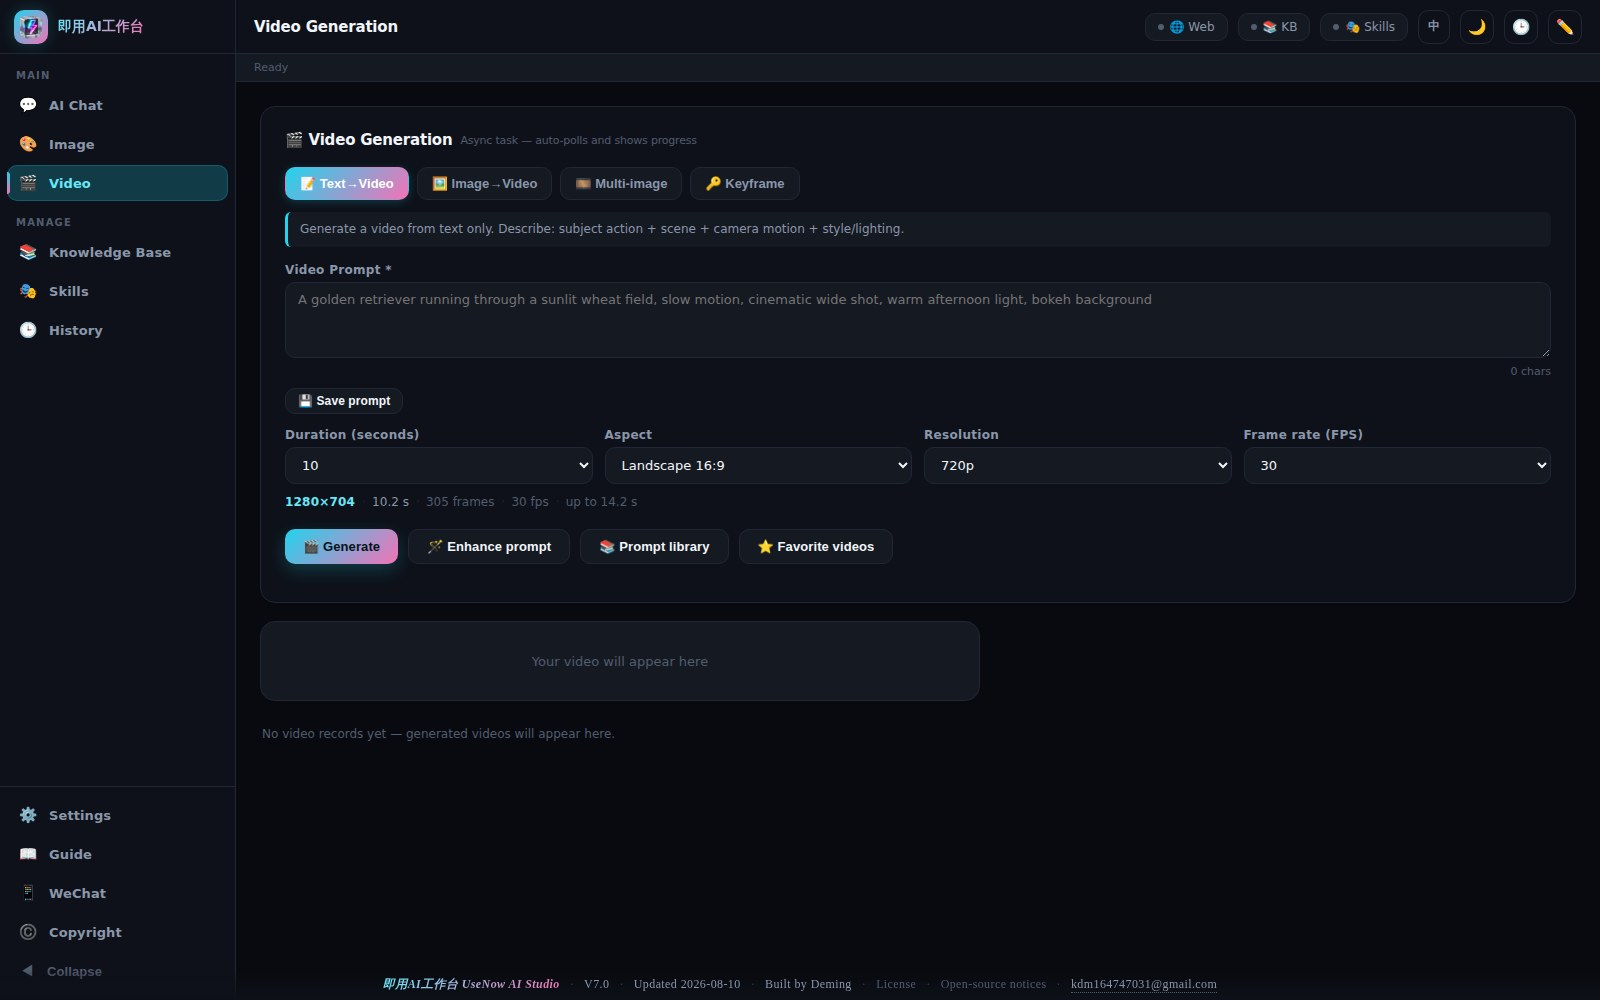
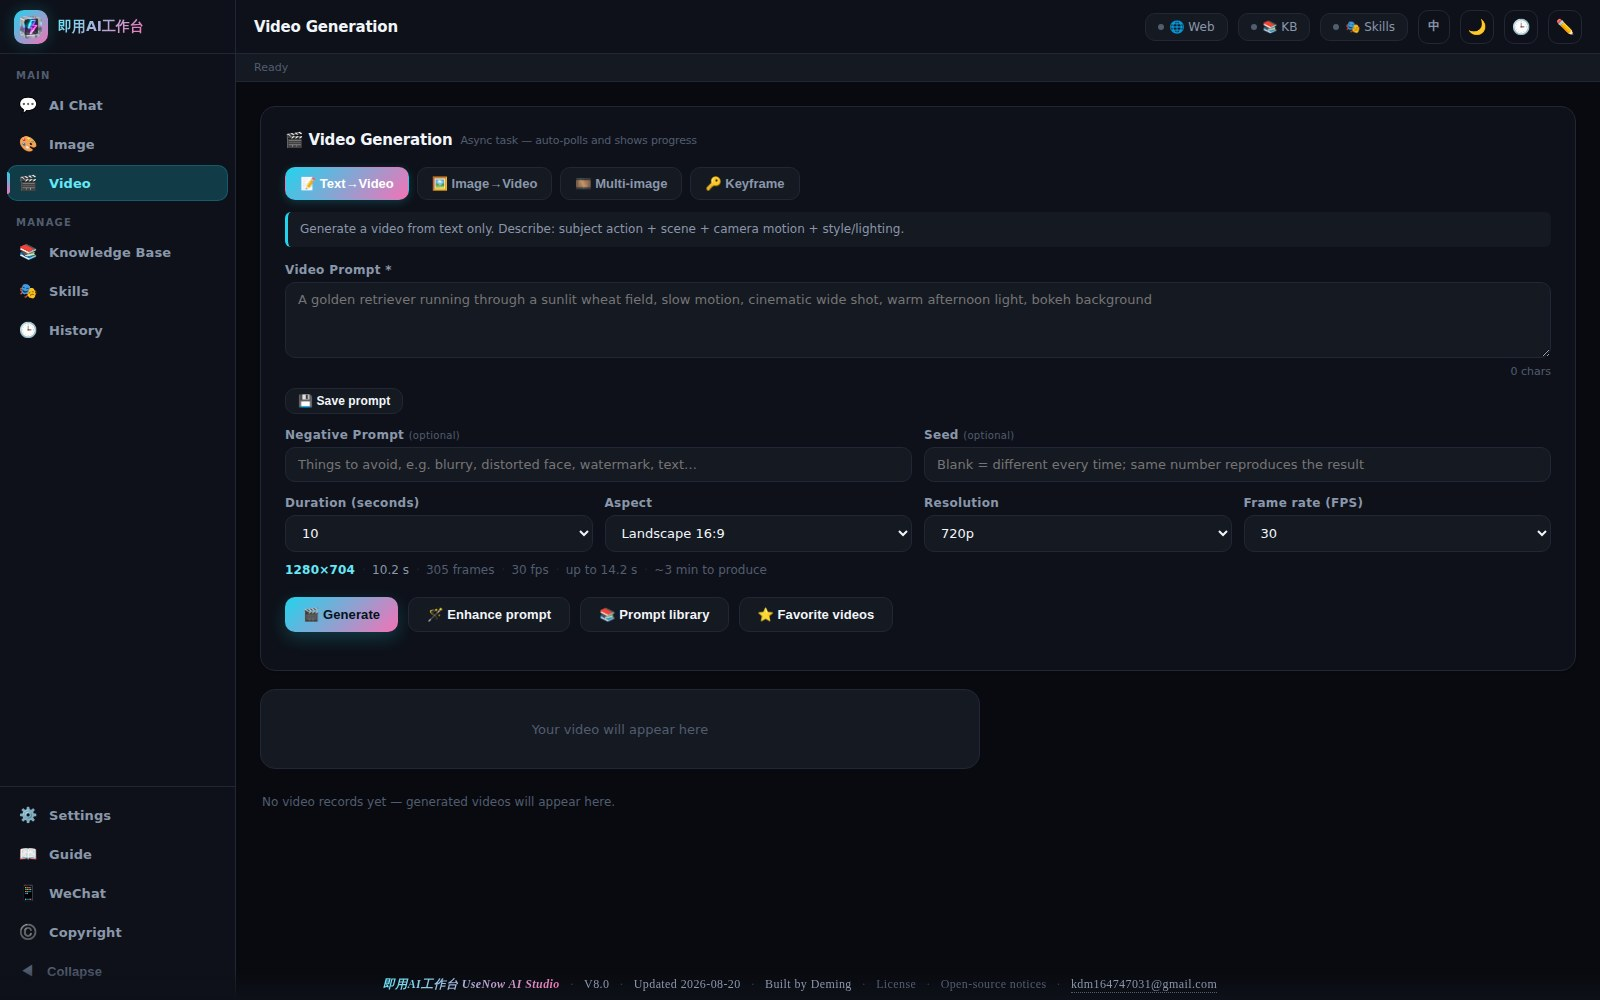
docs: sync from private repo (v8.0.0)

diff --git a/CHANGELOG.en.md b/CHANGELOG.en.md
@@ -6,6 +6,33 @@ Only user-visible changes are listed. Download: **[Releases](../../releases/late
 
 ---
 
+## V8.0 · 2026-08-20
+
+**Fixed**
+- **Multi-image video always failed with HTTP 400.** The server's own words:
+  `This request contains multiple images, but mode was omitted` — sending several images
+  requires declaring `mode=keyframes` alongside them, and that field was missing, so this
+  workflow had never once succeeded since the day it was added. It is now sent.
+  > This also corrects a deeper misunderstanding: Agnes supports exactly three shapes —
+  > no image (text-to-video), **exactly one** image (image-to-video), and
+  > **2–3 images with mode=keyframes** (keyframe video). There is no "multiple images
+  > without a mode" form. The image count for multi-image video therefore drops from 8 to
+  > the **3 the service actually allows**, and picking a fourth is flagged on screen rather
+  > than failing at submit time.
+- **Multi-image video could not take images one at a time** — each pick replaced the whole
+  previous batch, so you had to Ctrl-select them all in one go. Same cause as the image
+  reference field in the previous release, and the same fix: an accumulating list where
+  every pick is appended, thumbnails are numbered and individually removable, and the screen
+  explains how to add more.
+- **Switching to English left the reference-image instructions in Chinese.** That line is
+  assembled in JavaScript and carries no translation marker, so the language pass never saw
+  it. Fixed here and in the sibling spots, with a regression assertion to keep it fixed.
+
+**Also**
+- Every interface screenshot on the product page was retaken (six per language). They were
+  still showing V7.0 — the image page without **🔍 Image → prompt**, and the video page
+  without the negative prompt and seed fields.
+
 ## V7.9 · 2026-08-16
 
 **Fixed**

diff --git a/CHANGELOG.md b/CHANGELOG.md
@@ -6,6 +6,27 @@
 
 ---
 
+## V8.0 · 2026-08-20
+
+**修复**
+- **「多图视频」一直生成不了，一提交就报 HTTP 400。** 服务端的原话是
+  `This request contains multiple images, but mode was omitted`——送多张图时
+  必须同时声明 `mode=keyframes`，我们漏了这个字段，于是这条工作流从加进来那天起
+  就没有成功过。现在补上了。
+  > 顺带纠正一个更根本的误解：Agnes 只有三种形态——不带图（文生视频）、
+  > **恰好 1 张**（图生视频）、**2–3 张且 mode=keyframes**（关键帧）。
+  > 并不存在「不带 mode 的多图模式」。所以多图视频的张数上限从 8 张改成
+  > **服务端真正允许的 3 张**，选到第 4 张时界面会直接标红，而不是等到提交才报错。
+- **多图视频没法一张一张地加**，每次选择都会把上一批整个顶掉，只能按住 Ctrl 一次选完。
+  和上一版图片参考图同一个原因，现在改成同样的累加清单：每次选择都追加，
+  缩略图带序号、可单独删除，界面上也写明了怎么继续加。
+- **切到 English 后，参考图下面那行操作说明仍是中文。** 那行字是 JS 拼出来的、
+  不带翻译标记，切语言时扫不到。同类的几处一并修好并加了回归断言。
+
+**其它**
+- 产品页的界面预览截图全部重拍（中英各六张），此前停在 V7.0 —— 图片生成那张
+  还没有「🔍 反推提示词」，视频生成那张也没有负面提示词与随机种子。
+
 ## V7.9 · 2026-08-16
 
 **修复**
